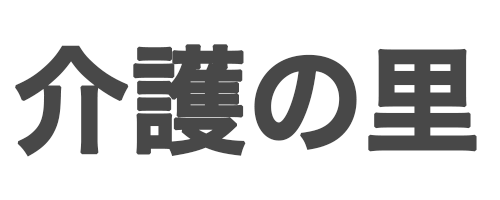
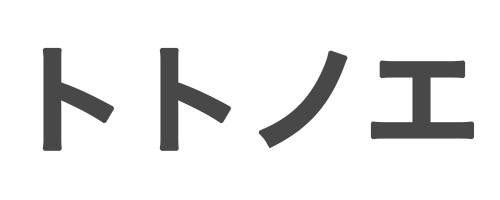
fiest

Changed region(s): [[0.03, 0.21, 0.96, 0.78]]

diff --git a/app/helpers/application_helper.rb b/app/helpers/application_helper.rb
@@ -1,10 +1,10 @@
 module ApplicationHelper
   def default_meta_tags
     {
-      site: "介護施設・老人ホームを知るなら｜介護の里",
-      title: "<%= yield(:title) || eatery-japan %>" ,
-      description: "介護施設・老人ホームを知るなら介護の里",
-      keywords:    "介護施設,老人ホーム",
+      site: "エンディングから葬儀まで知るなら｜トトノエ",
+      title: "<%= yield(:title) || トトノエ %>" ,
+      description: "エンディングから葬儀まで知るならトトノエ",
+      keywords:    "葬儀,エンディング",
       canonical: request.original_url,  # 優先されるurl
       charset: "UTF-8",
       #icon: [href: image_url('favicon.ico')]
